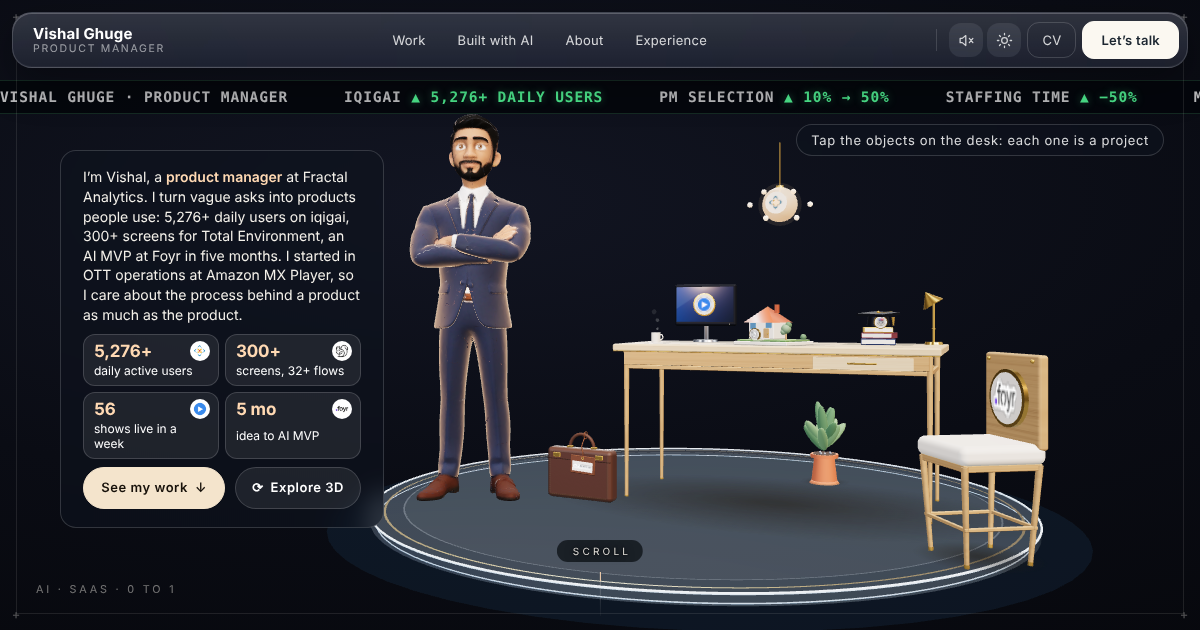
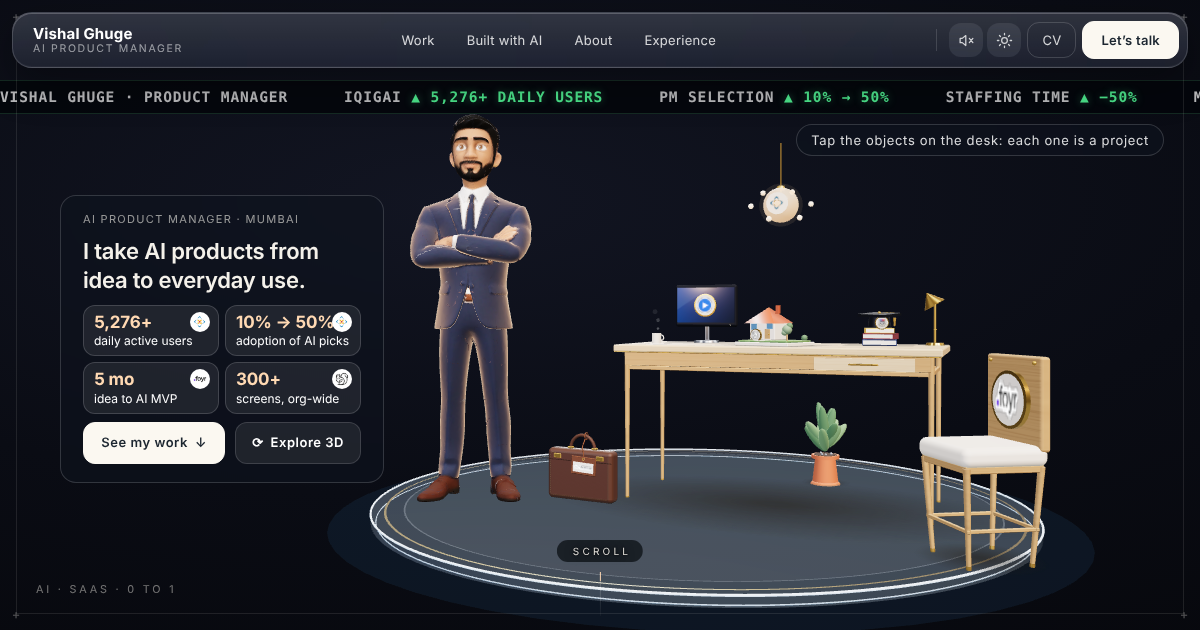
Story update: AI PM positioning
- Hero: fixed headline 'I take AI products from idea to everyday use.' (no rotating role), proof reordered
- Work reordered AI-first; section framing for Work, Built with AI and About
- About rewritten as the operations to product to AI arc
- Closing card: 'Building something with AI? Let's talk.'
- Minimal type scale: sans headline and card numbers, smaller serif section titles
- 'AI Product Manager' in bar, footer, title and link preview; refresh og.png

Claude-Session: https://claude.ai/code/session_01SWnfNPGbFHhiGrXWnwnedS

diff --git a/web/index.html b/web/index.html
@@ -3,7 +3,7 @@
   <head>
     <meta charset="UTF-8" />
     <meta name="viewport" content="width=device-width, initial-scale=1.0" />
-    <title>Vishal Ghuge · Product Manager</title>
+    <title>Vishal Ghuge · AI Product Manager</title>
     <meta
       name="description"
       content="Vishal Ghuge, product manager building AI and SaaS products from 0 to 1. Portfolio and case studies."
@@ -11,21 +11,21 @@
     <meta name="theme-color" content="#0a0e16" />
     <link rel="icon" type="image/svg+xml" href="./favicon.svg?v=2" />
     <meta property="og:type" content="website" />
-    <meta property="og:title" content="Vishal Ghuge · Product Manager" />
+    <meta property="og:title" content="Vishal Ghuge · AI Product Manager" />
     <meta
       property="og:description"
       content="Product Manager at Fractal Analytics. Case studies: iqigai (AI staffing platform with 5,276+ daily users), a 300+ screen 3D design tool, an AI MVP in 5 months, and 56 shows live in a week at Amazon MX Player."
     />
     <meta property="og:url" content="https://vishalghuge-git.github.io/portfolio/" />
-    <meta property="og:image" content="https://vishalghuge-git.github.io/portfolio/og.png?v=8" />
+    <meta property="og:image" content="https://vishalghuge-git.github.io/portfolio/og.png?v=9" />
     <meta property="og:image:width" content="1200" />
     <meta property="og:image:height" content="630" />
     <meta property="og:image:alt" content="Vishal Ghuge's portfolio: a 3D studio with his work and case studies" />
-    <meta property="og:site_name" content="Vishal Ghuge · Product Manager" />
+    <meta property="og:site_name" content="Vishal Ghuge · AI Product Manager" />
     <meta name="twitter:card" content="summary_large_image" />
-    <meta name="twitter:title" content="Vishal Ghuge · Product Manager" />
+    <meta name="twitter:title" content="Vishal Ghuge · AI Product Manager" />
     <meta name="twitter:description" content="AI and SaaS products from 0 to 1. Case studies from Fractal, Foyr, Total Environment and Amazon MX Player." />
-    <meta name="twitter:image" content="https://vishalghuge-git.github.io/portfolio/og.png?v=8" />
+    <meta name="twitter:image" content="https://vishalghuge-git.github.io/portfolio/og.png?v=9" />
     <link rel="preconnect" href="https://fonts.googleapis.com" />
     <link rel="preconnect" href="https://fonts.gstatic.com" crossorigin />
     <link
@@ -59,7 +59,7 @@
     <link rel="preload" as="image" href="%BASE_URL%stickers/bocconi.png" crossorigin="anonymous" />
   </head>
   <body>
-    <noscript><div style="font:16px/1.5 system-ui;color:#f4f1ea;background:#0a0e16;padding:32px;min-height:100vh"><h1>Vishal Ghuge · Product Manager</h1><p>AI and SaaS products from 0 to 1. Product Manager at Fractal Analytics, Mumbai.</p><p><a style="color:#ffd9b3" href="./Vishal_Ghuge_CV.pdf">Download CV</a> · <a style="color:#ffd9b3" href="mailto:vishalghuge26@gmail.com">vishalghuge26@gmail.com</a></p><h2>Work</h2><ul><li><b>iqigai</b>: matches bench people to open roles and explains every recommendation. 5,276+ daily users; PM selection rate up from 10% to 50%.</li><li><b>Total Environment</b>: a web 3D design tool and buyer portal. 300+ screens, rolled out organisation-wide.</li><li><b>Foyr Ideate</b>: AI interior design, from 0 to MVP in 5 months.</li><li><b>Amazon MX Player</b>: 300,000+ content units, +50% output in a month, 56 shows live in a week.</li></ul><p>The full portfolio is an interactive 3D site and needs JavaScript.</p></div></noscript>
+    <noscript><div style="font:16px/1.5 system-ui;color:#f4f1ea;background:#0a0e16;padding:32px;min-height:100vh"><h1>Vishal Ghuge · AI Product Manager</h1><p>AI and SaaS products from 0 to 1. Product Manager at Fractal Analytics, Mumbai.</p><p><a style="color:#ffd9b3" href="./Vishal_Ghuge_CV.pdf">Download CV</a> · <a style="color:#ffd9b3" href="mailto:vishalghuge26@gmail.com">vishalghuge26@gmail.com</a></p><h2>Work</h2><ul><li><b>iqigai</b>: matches bench people to open roles and explains every recommendation. 5,276+ daily users; PM selection rate up from 10% to 50%.</li><li><b>Total Environment</b>: a web 3D design tool and buyer portal. 300+ screens, rolled out organisation-wide.</li><li><b>Foyr Ideate</b>: AI interior design, from 0 to MVP in 5 months.</li><li><b>Amazon MX Player</b>: 300,000+ content units, +50% output in a month, 56 shows live in a week.</li></ul><p>The full portfolio is an interactive 3D site and needs JavaScript.</p></div></noscript>
     <div id="root"><div id="boot" aria-hidden="true"><svg viewBox="0 0 80 80"><circle class="t" cx="40" cy="40" r="34"/><circle class="a" cx="40" cy="40" r="34"/></svg></div></div>
     <script type="module" src="/src/main.tsx"></script>
   </body>

diff --git a/web/src/styles.css b/web/src/styles.css
@@ -3176,3 +3176,14 @@ html[data-theme='light'] .timeline .tl-collapse .tl-body:not(:has(.tl-group)) { 
 .about-eyebrow { font-size: 11px; letter-spacing: 0.12em; }
 .sec-title, .resume-title, .closing-title { font-size: clamp(28px, 3vw, 40px); line-height: 1.1; }
 .sec-sub, .closing-sub { font-size: 15px; }
+/* Work card numbers: same clean sans as the rest; serif stays only in section titles */
+.work-card-media.is-stat b { font-family: 'Helvetica Neue', system-ui, sans-serif; font-weight: 700; font-size: 26px; letter-spacing: -0.01em; }
+@media (min-width: 641px) { .work-card-media.is-stat b { font-size: 28px; } }
+/* closing sits on the same glass card as other sections, so it reads over the 3D scene */
+.closing {
+  padding: 22px 20px; border-radius: var(--r-card);
+  background: var(--glass-strong); border: 1px solid var(--glass-line);
+  -webkit-backdrop-filter: var(--glass-blur); backdrop-filter: var(--glass-blur);
+}
+@media (max-width: 640px) { .closing { width: calc(100% - 32px); } }
+@media (min-width: 641px) { .closing { padding: 26px 26px; } }

diff --git a/web/src/App.tsx b/web/src/App.tsx
@@ -359,14 +359,14 @@ function Contact() {
   return (
     <>
     <section className="closing" lang="en" aria-labelledby="closing-title">
-      <h2 className="closing-title" id="closing-title">Hiring an AI PM? Let’s talk.</h2>
+      <h2 className="closing-title" id="closing-title">Building something with AI? Let’s talk.</h2>
       <p className="closing-sub">I’m happy to walk you through any of these products, the decisions behind them and what I’d do next.</p>
     </section>
     <footer className="contact" id="contact" lang="en">
       <div className="foot-bar">
         <div className="foot-id">
           <b>Vishal Ghuge</b>
-          <span>Product Manager · Mumbai</span>
+          <span>AI Product Manager · Mumbai</span>
         </div>
         <nav className="foot-links" aria-label="Contact">
           <a href={LINKEDIN_URL} target="_blank" rel="noopener noreferrer" onClick={() => track('linkedin_click', 'footer')}>
